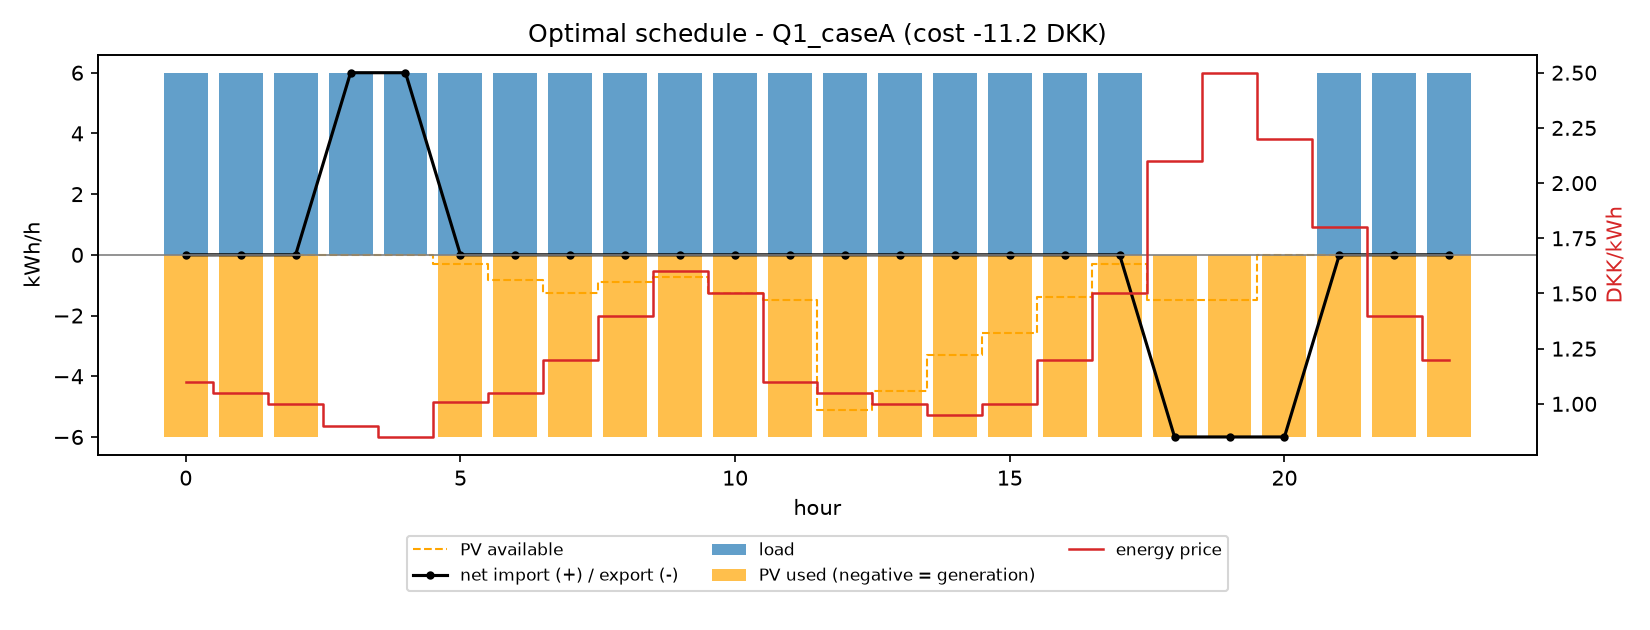
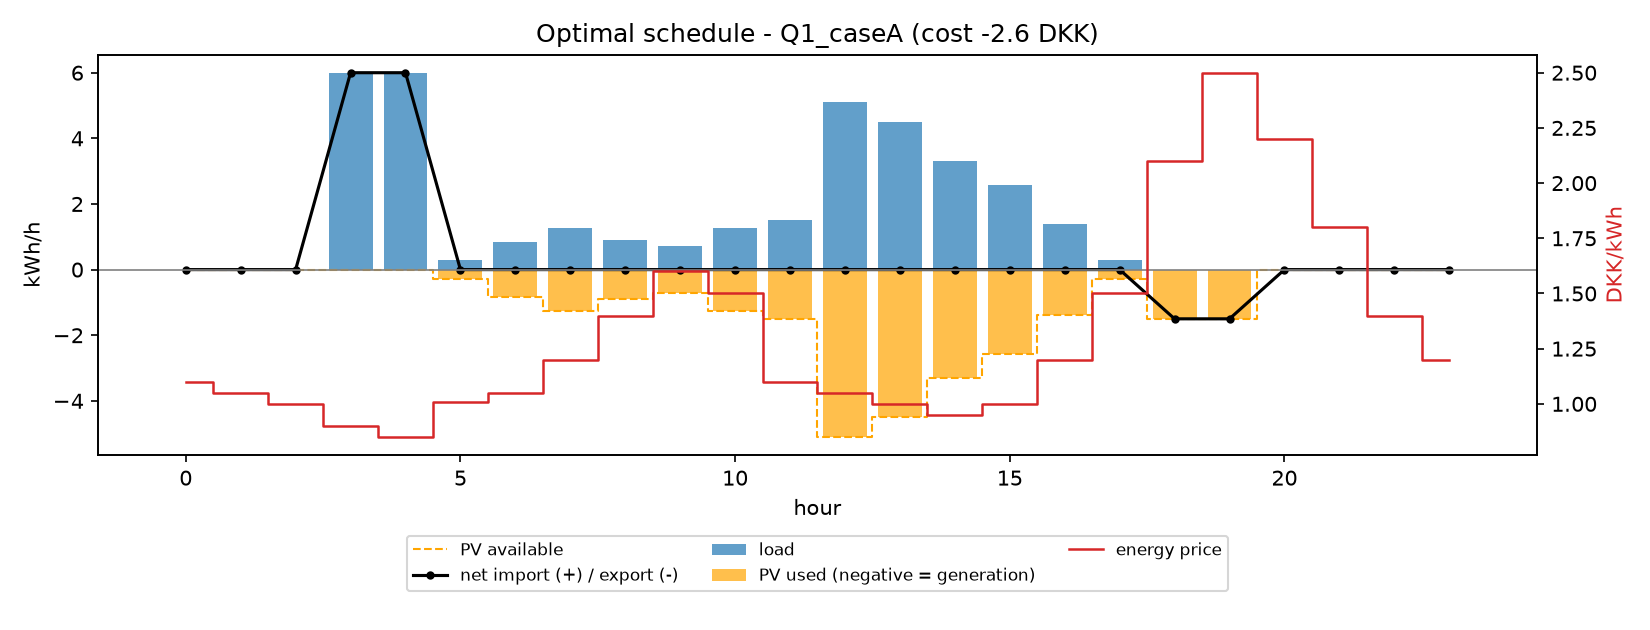
Fixed the solarpower constraint

diff --git a/src/model.py b/src/model.py
@@ -155,18 +155,18 @@ class FlexibleConsumerModel:
             (d.load_min_kWh - L[t] <= 0 for t in T), name="load_min")
 
         self.con["load_max"] = m.addConstrs(
-                    (L[t] - d.load_max_kWh <= 0 for t in T), name="load_max")
+            (L[t] - d.load_max_kWh <= 0 for t in T), name="load_max")
 
         self.con["pv_min"] = m.addConstrs(
             (-PV[t] <= 0 for t in T), name="pv_min")
 
         self.con["pv_max"] = m.addConstrs(
-            (PV[t] - d.pv_max_kW <= 0 for t in T), name="pv_max")
+            (PV[t] - d.pv_available[t] <= 0 for t in T), name="pv_max")
 
         self.con["imp_nonneg"] = m.addConstrs(
-            (-IMP[t] <= 0 for t in T), name="imp_nonneg")
+            (IMP[t] >= 0 for t in T), name="imp_nonneg")
         self.con["exp_nonneg"] = m.addConstrs(
-            (-EXP[t] <= 0 for t in T), name="exp_nonneg")
+            (EXP[t] >= 0 for t in T), name="exp_nonneg")
         m.update()
         return self
 
